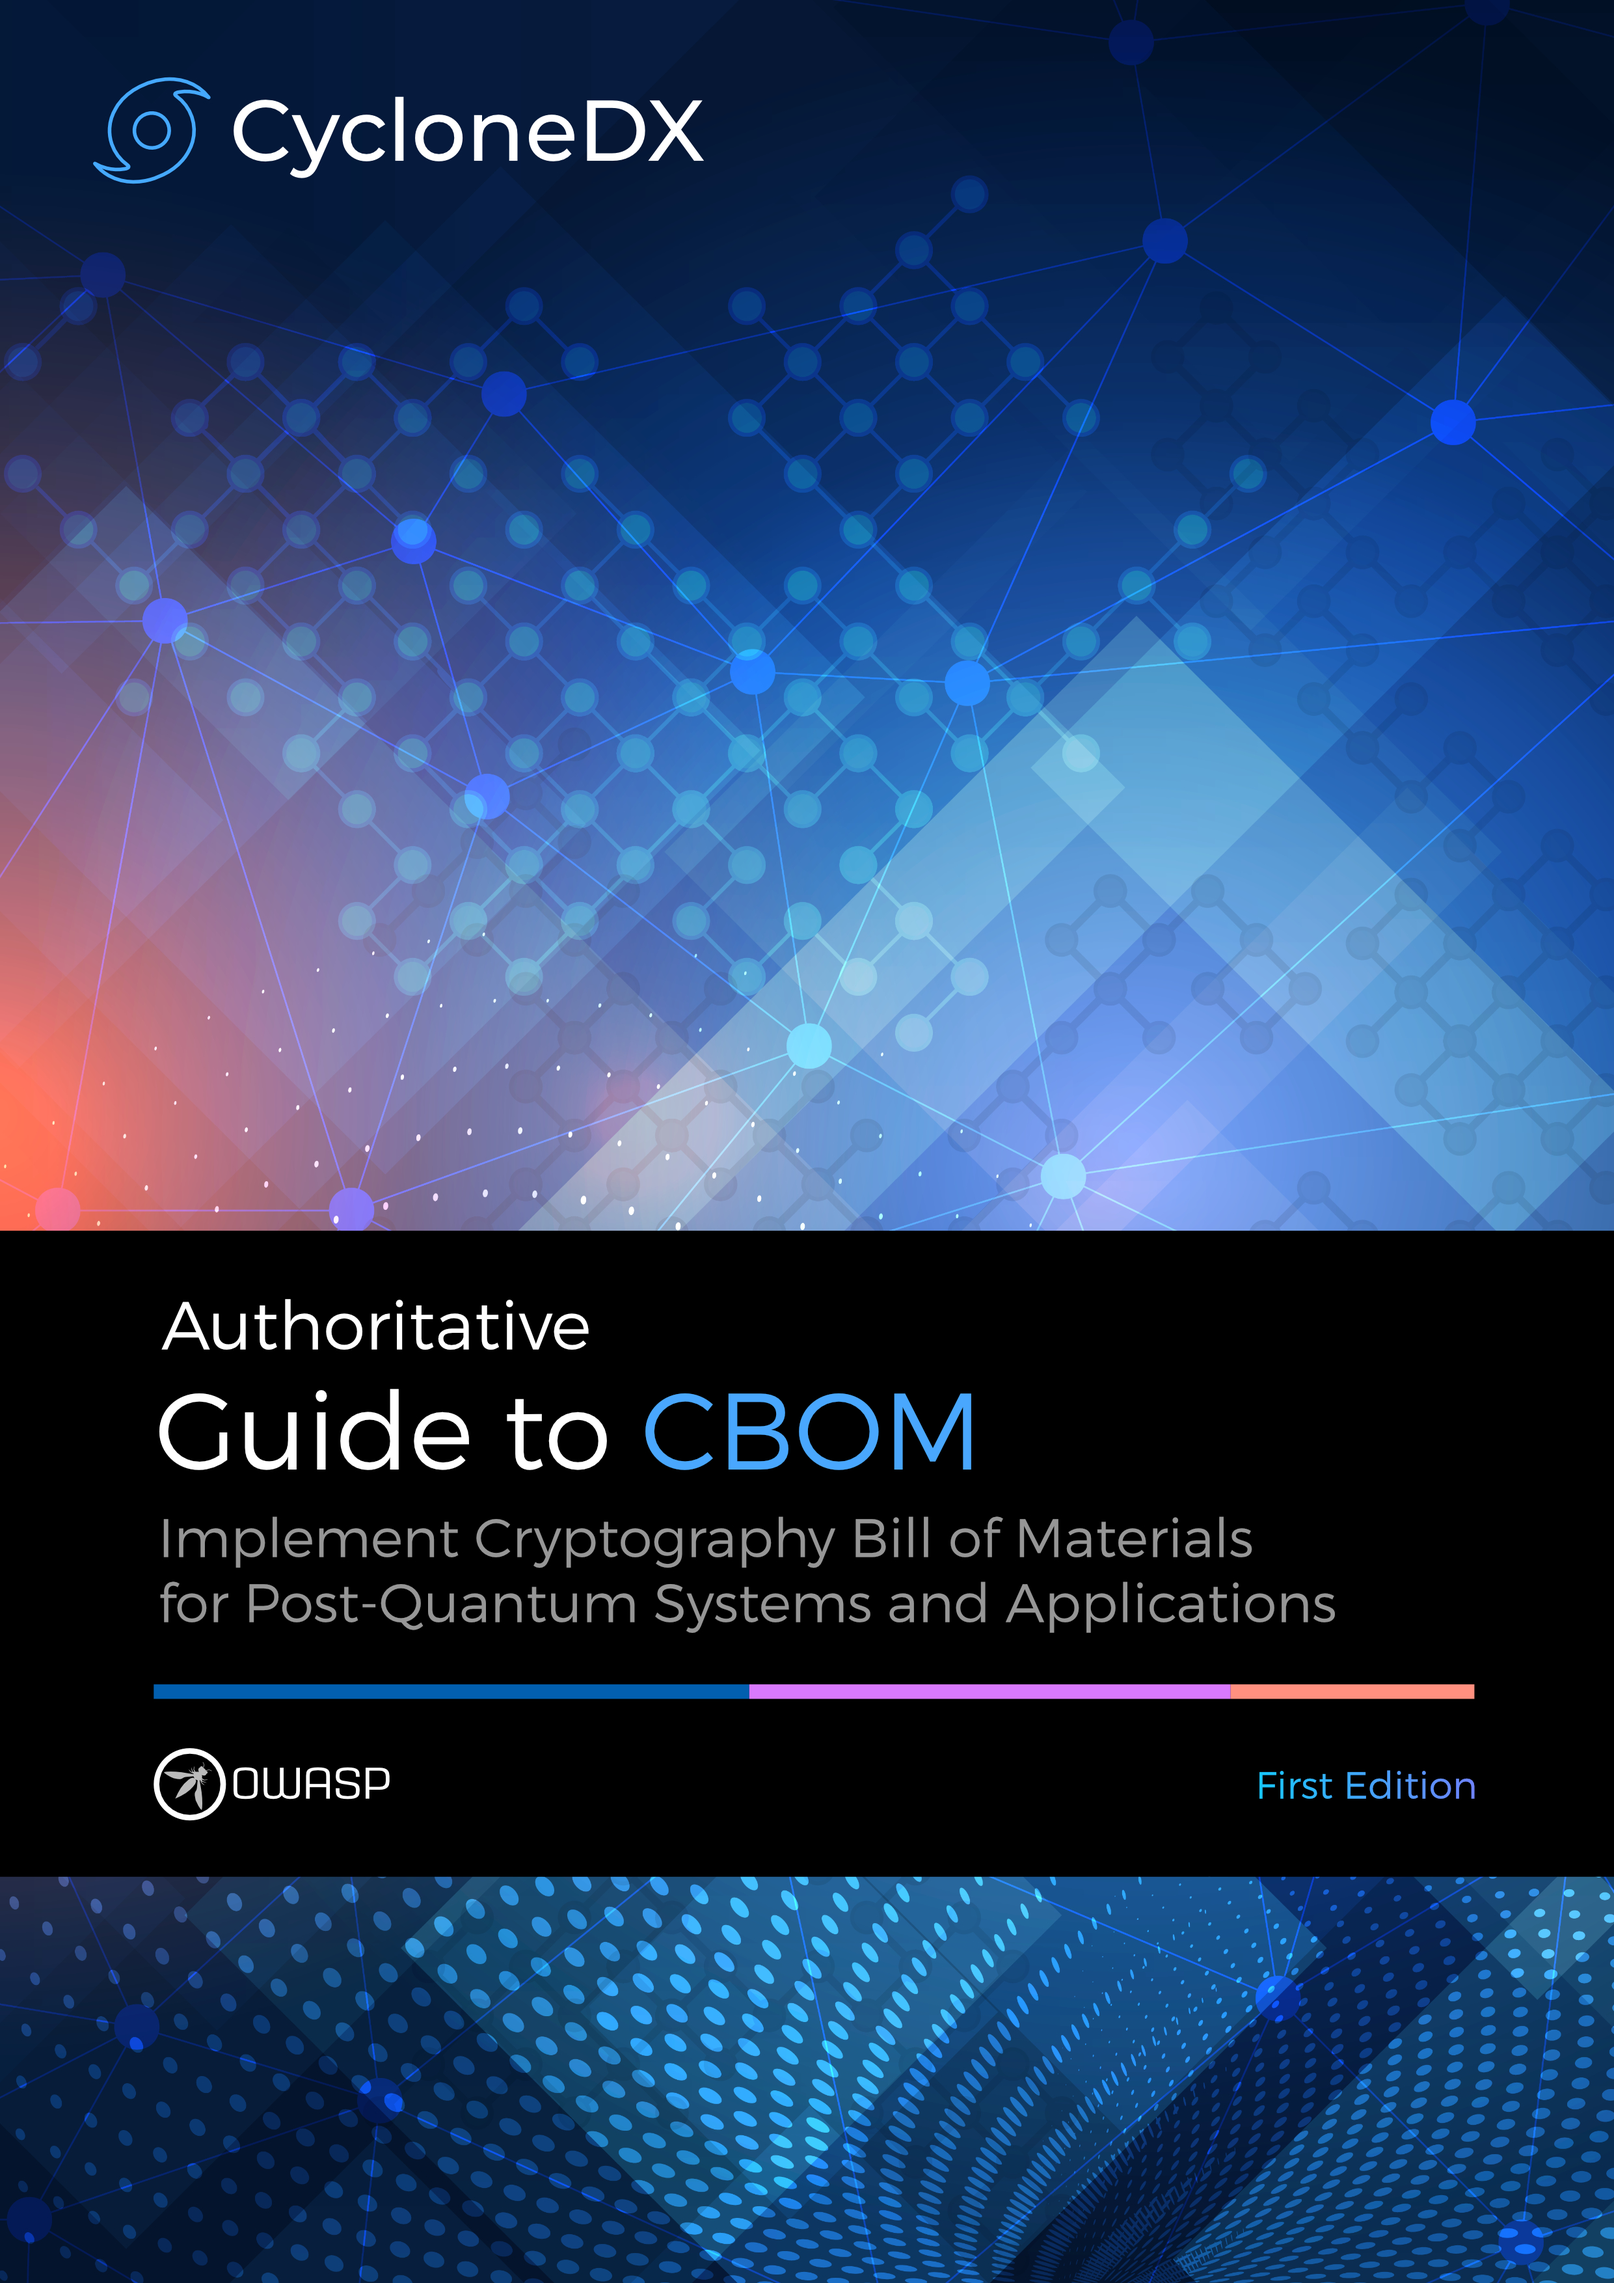
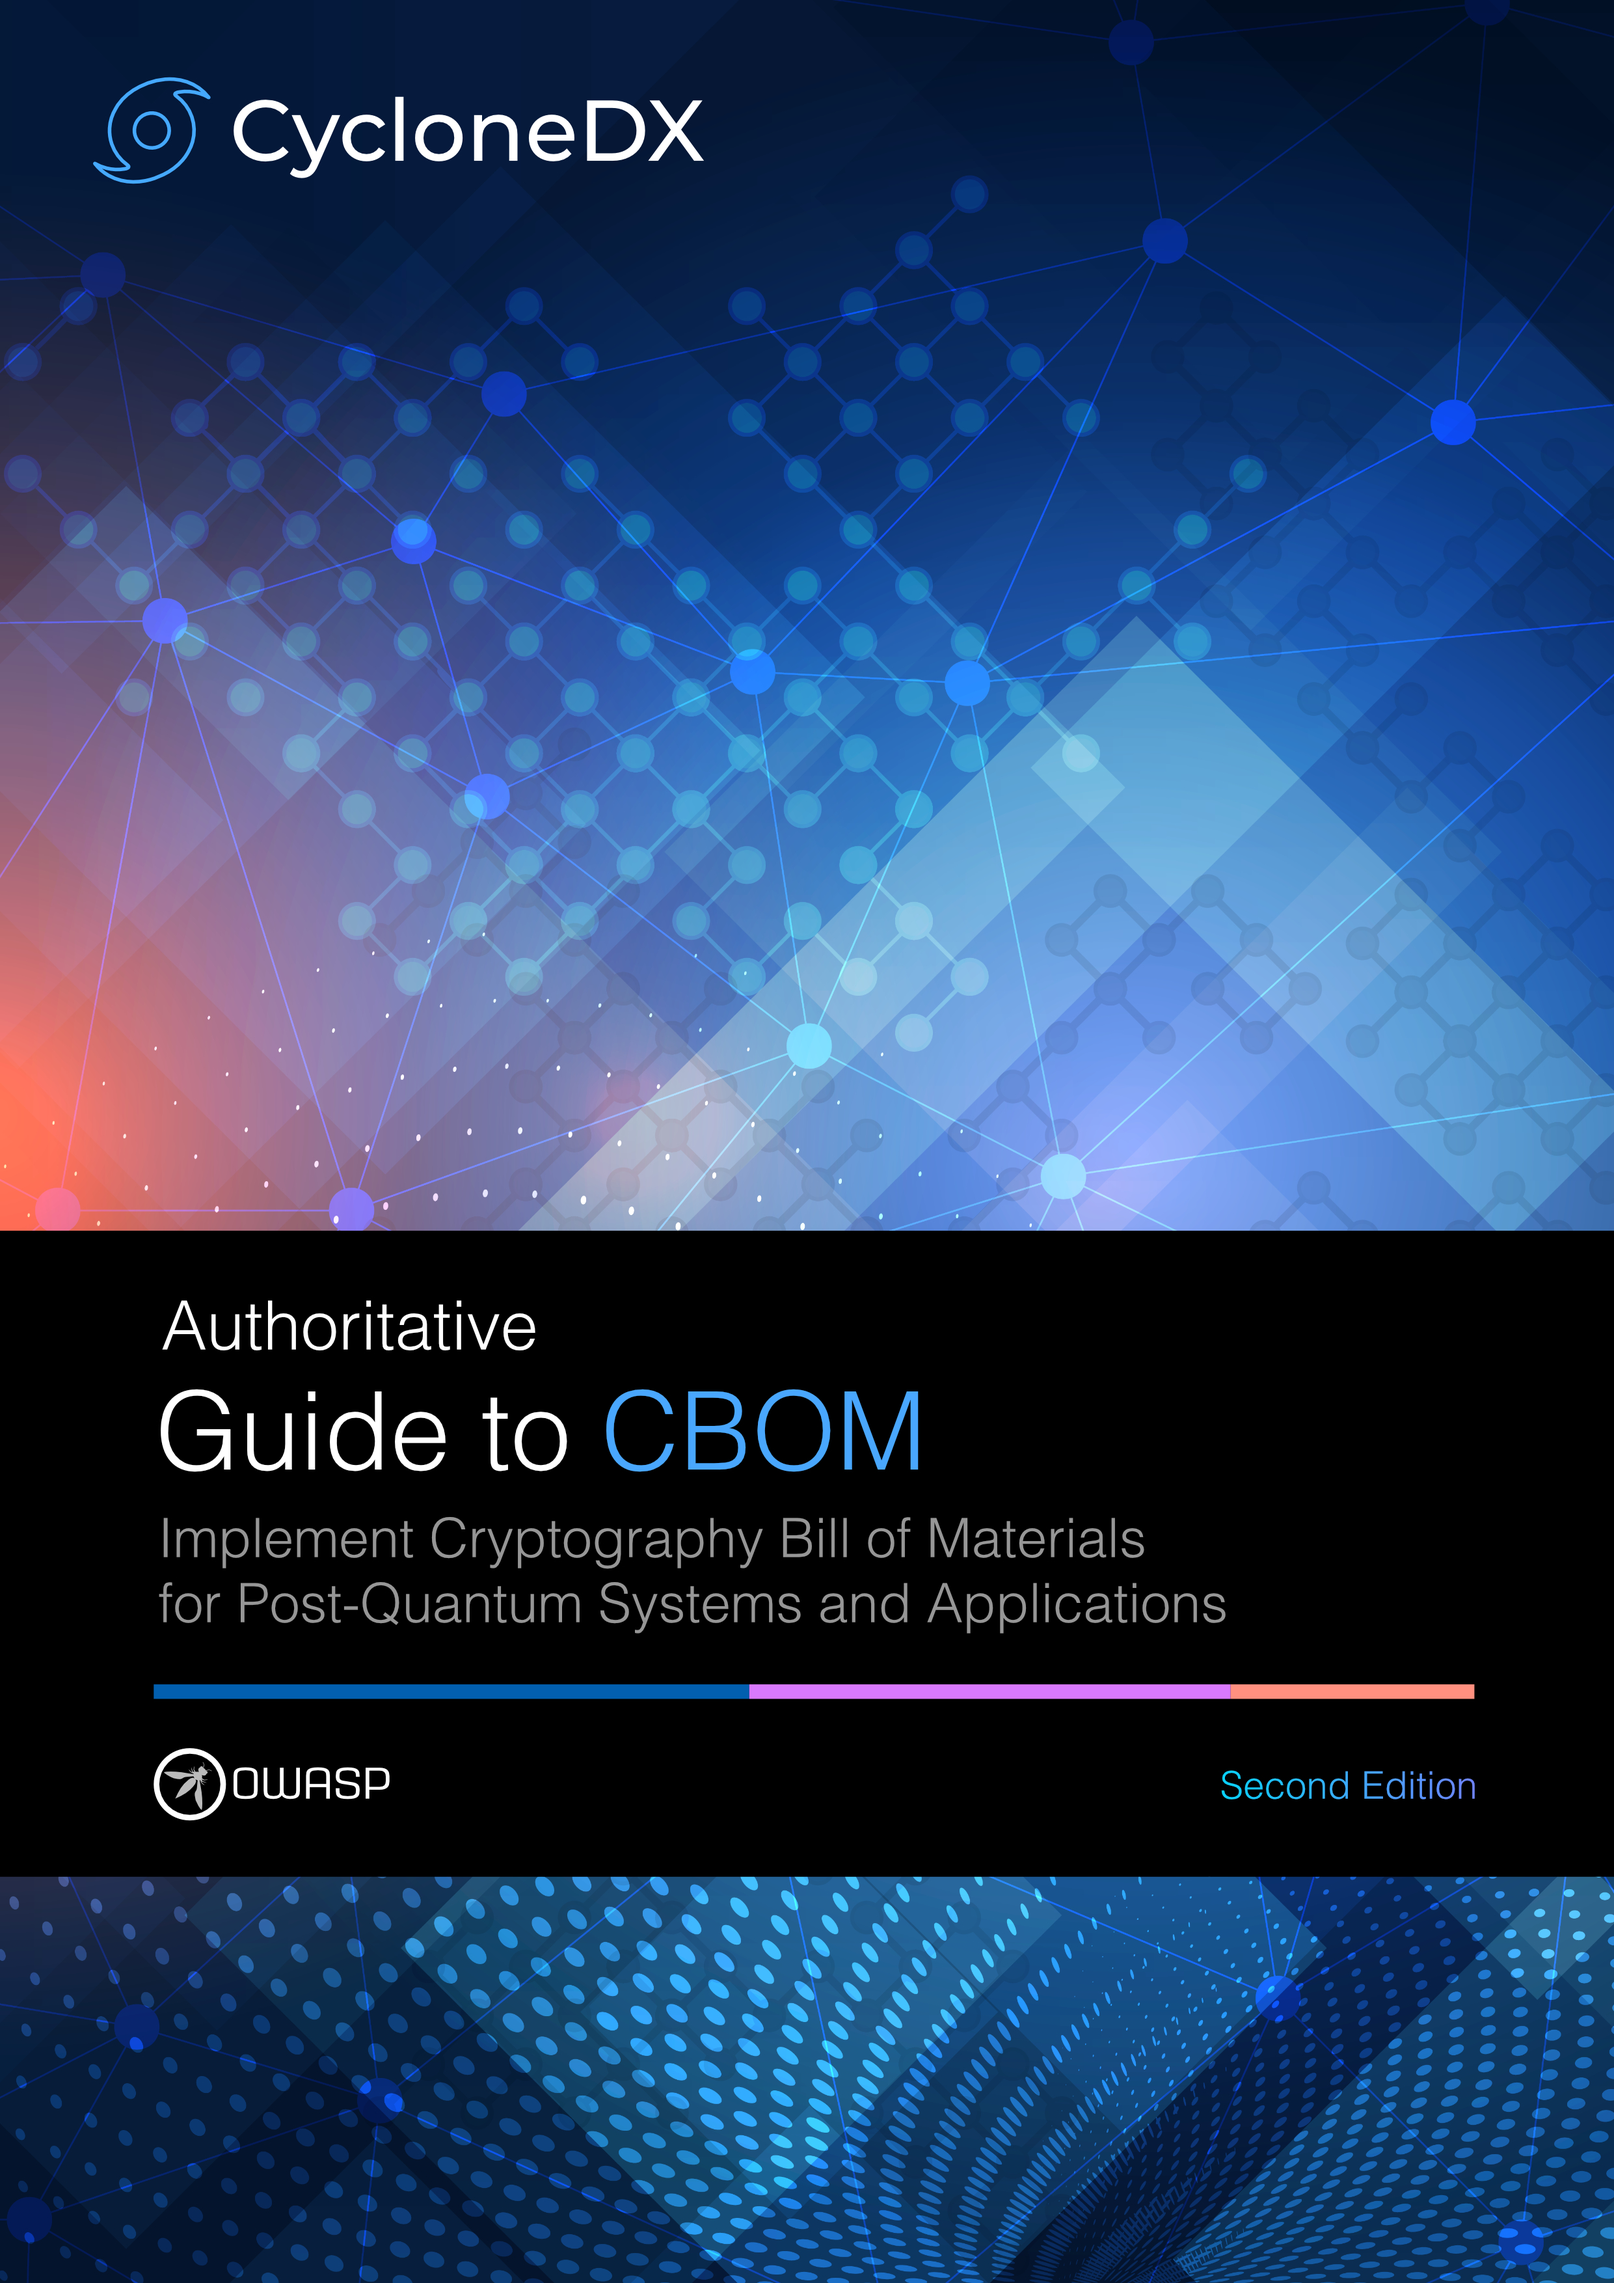
Updating CBOM covers and copyright year

Changed region(s): [[0.0931, 0.5593, 0.838, 0.7147], [0.7759, 0.7768, 0.9, 0.8079]]

diff --git a/CBOM/en/0x01-Frontispiece.md b/CBOM/en/0x01-Frontispiece.md
@@ -15,7 +15,7 @@ Ecma International Technical Committee 54, and a global network of contributors 
 
 ![license](../../images/license.svg)
 
-Copyright © 2024 The OWASP Foundation. 
+Copyright © 2025 The OWASP Foundation. 
 
 This document is released under the [Creative Commons Attribution 4.0 International](https://creativecommons.org/licenses/by/4.0/).
 For any reuse or distribution, you must make clear to others the license terms of this work.
